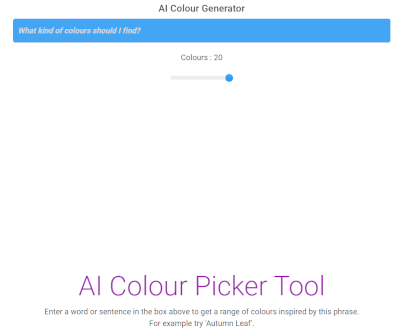
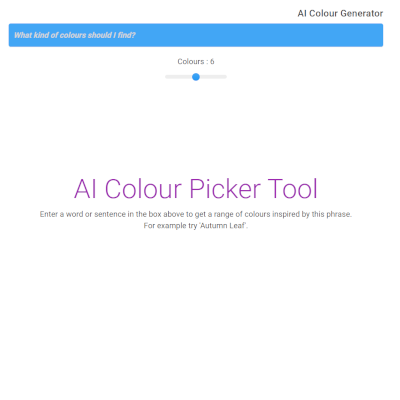
chore(): update load spinner to show user query

diff --git a/src/app.tsx b/src/app.tsx
@@ -22,6 +22,7 @@ function App(): React.JSX.Element {
 	const [aiColourData, setAiColourData] = useState<ColourData>();
 	const [isLoading, setIsLoading] = useState(false);
 	const [numberOfColours, setNumberOfColours] = useState('6');
+	const [loadSpinnerText, setLoadSpinnerText] = useState('');
 	const inputData = useRef<HTMLInputElement>(null);
 
 	const slider = useRef<HTMLInputElement>(null);
@@ -54,7 +55,7 @@ function App(): React.JSX.Element {
 
 		// Set up return data and set loading spinner until OAI response is obtained
 		const userQuestion = inputData.current.value;
-
+		setLoadSpinnerText(userQuestion?.toLocaleLowerCase());
 		setIsLoading(true);
 
 		// Prepare prompt
@@ -100,9 +101,11 @@ function App(): React.JSX.Element {
 
 	return (
 		<>
-			<AnimatePresence>{isLoading && <LoadSpinner />}</AnimatePresence>
+			<AnimatePresence>
+				{isLoading && <LoadSpinner prompt={loadSpinnerText ?? null} />}
+			</AnimatePresence>
 			<header className="Header">
-				<div>
+				<div className="Header_strapline">
 					<h5>AI Colour Generator</h5>
 				</div>
 				<input

diff --git a/src/App.css b/src/App.css
@@ -21,6 +21,7 @@
 	flex-direction: column;
 	justify-content: center;
 	align-items: center;
+	margin: 10px 0px 0px 0px;
 }
 
 .Header > input:focus {
@@ -32,12 +33,17 @@
 	font-style: italic;
 }
 
+.Header_strapline {
+	width: 100%;
+	text-align: end;
+}
+
 .Header_slider {
 	display: flex;
 	flex-direction: row;
 	justify-content: center;
 	align-items: center;
-	/* margin: 10px 0px 0px 0px; */
+	margin: -10px 0px 0px 0px;
 }
 
 .Header__userInput {
@@ -60,7 +66,7 @@
 	flex-direction: column;
 	justify-content: center;
 	align-items: center;
-	background-color: rgba(1, 1, 1, 0.3);
+	background-color: rgba(1, 1, 1, 0.7);
 	backdrop-filter: blur(2px);
 	z-index: 9999;
 }
@@ -70,9 +76,14 @@
 	height: 80px;
 }
 
+.IntroBox {
+	padding: 180px 0px 0px 0px;
+	height: 100%;
+}
+
 .ColourView__themeText {
 	margin: 60px 0px 60px 0px;
-	text-transform: capitalize;
+	text-transform: lowercase;
 }
 
 .ColorResults {
@@ -116,6 +127,7 @@
 
 .ColorBlock_info {
 	font-size: 14px;
+	max-width: 100px;
 }
 
 /* Set to prevent screen flickering when tooltip appears */

diff --git a/src/components/load-spinner.tsx b/src/components/load-spinner.tsx
@@ -2,7 +2,11 @@ import React from 'react';
 import { Spinner } from 'react-bootstrap';
 import { motion } from 'framer-motion';
 
-function LoadSpinner(): React.JSX.Element {
+type LoadSpinnerProps = {
+	readonly prompt: string | undefined;
+};
+
+function LoadSpinner({ prompt }: LoadSpinnerProps): React.JSX.Element {
 	return (
 		<motion.div
 			className="LoadSpinner"
@@ -21,6 +25,8 @@ function LoadSpinner(): React.JSX.Element {
 				className="text-white LoadSpinner__spinner"
 			/>
 			<h1 className="display-4 text-white">getting colours</h1>
+			<h3 className="display-6 text-white">for</h3>
+			<h3 className="display-6 text-white"> {prompt}</h3>
 		</motion.div>
 	);
 }

diff --git a/src/components/intro-box.tsx b/src/components/intro-box.tsx
@@ -3,7 +3,7 @@ import { Stack } from 'react-bootstrap';
 
 function IntroBox(): React.JSX.Element {
 	return (
-		<Stack className="IntroBox d-flex flex-column justify-content-center align-items-center vh-100 pt-4 bg-opacity-25">
+		<Stack className="IntroBox d-flex flex-column justify-content-center align-items-center bg-opacity-25">
 			<h1 className="display-4 text-info">AI Colour Picker Tool</h1>
 			<div>
 				Enter a word or sentence in the box above to get a range of colours inspired

diff --git a/README.md b/README.md
@@ -1,4 +1,4 @@
-# DEMO AI Colour Picker Tool
+# AI Colour Generator / Picker Tool
 
 ## Description
 
@@ -10,7 +10,8 @@ Results can be copied to local clipboard as JSON data and pasted into a code edi
 
 ### NOTE: This is a demo project only. Never put Open AI API keys inside a production frontend client application. Instead create a backend API to contact Open AI and relay the response back to the client app using any required authorisation method
 
-![intro view](images/intro.png) ![loading view](images/loading.png)![response view](images/response.png)
+![intro view](images/intro.png) ![loading view](images/loading.png)  
+![response view1](images/response.png) ![response view1](images/response2.png)
 
 ## Set-up
 
